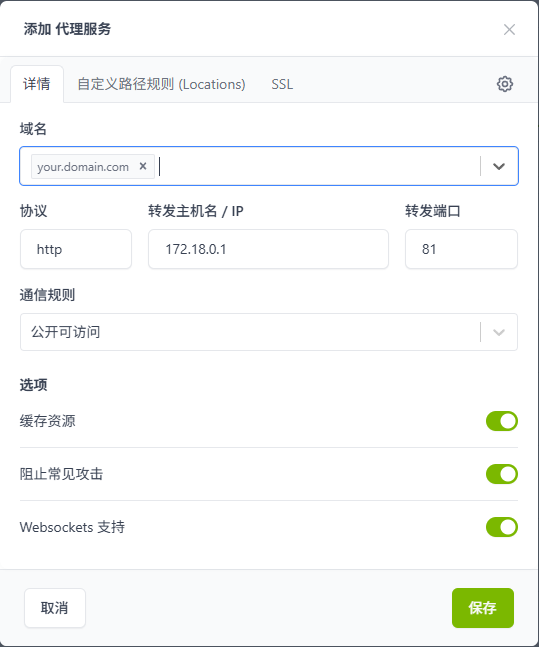
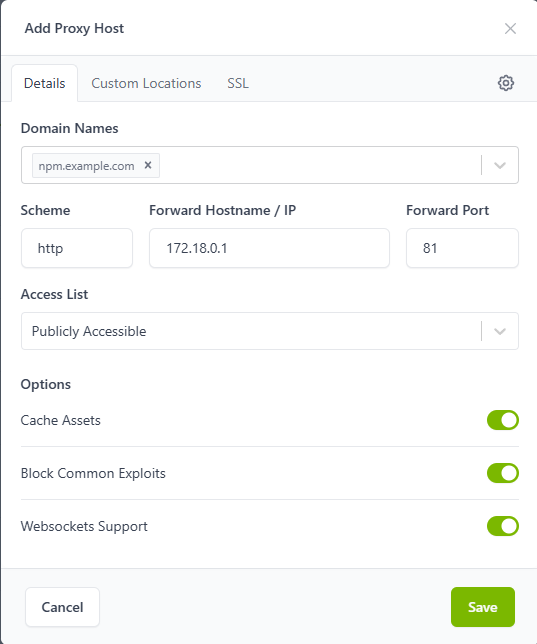
update README-b

diff --git a/README-b.md b/README-b.md
@@ -27,8 +27,9 @@ sudo sh get-docker.sh
 
 ### 3）准备工作目录
 
-如果你**已经在使用 Nginx、Caddy、Nginx Proxy Manager 等反向代理工具**，进入它们所在的目录即可。  
-如果你**还没有任何反向代理环境**，可以先创建一个新目录：
+如果你**已经在使用 Nginx、Caddy、Nginx Proxy Manager 等反向代理工具**，进入它们所在的目录即可。接下来直接跳到6)。  
+
+如果你**还没有任何反向代理环境**，可以先创建一个新目录并进入：
 
 ```bash
 mkdir emby-proxy && cd emby-proxy
@@ -70,6 +71,8 @@ services:
 - `DB_MYSQL_USER` 和 `MYSQL_USER` 必须一致
 - `DB_MYSQL_PASSWORD` 和 `MYSQL_PASSWORD` 必须一致
 - 建议所有密码都设置为强密码
+
+下一步到7)。
 
 ### 6）如果你已经有自己的反向代理环境
 
@@ -135,19 +138,22 @@ http://你的服务器IP:81
 
 这里需要注意：
 
-- 把 `your.domain.com` 改成你自己的域名
+- 把 `npm.example.com` 改成你自己的域名
 - 把 `172.18.0.1` 改成你的 Docker 网关地址
-- 如果你是新安装环境，`172.18.0.1` 通常不用改
-- SSL 相关选项按你的实际情况勾选，然后保存
+- 如果你是新安装环境，`172.18.0.1` 通常不用改 
 
-保存后，你就可以通过域名访问 Nginx Proxy Manager。  
-由于首次创建账号时走的是 HTTP 明文，建议配置完成后顺手修改一下密码。
+SSL 相关选项按你的实际情况勾选，然后保存。
+
+保存后，你就可以通过域名访问 Nginx Proxy Manager，之后请使用 https 域名形式访问。
+由于首次创建账号时走的是 HTTP 明文，建议配置完成后在下一次使用域名访问时顺手修改一下密码。
 
 ### 4）反代 `emby-proxy` 服务
 
+与上一步一样，建立一个新的代理用来代理本服务。
+
 ![](screenshots/npm-2.png)
 
-这里把 `proxy.emby.com` 改成你自己的域名。前往 SSL 页面，同样按你的实际情况勾选。
+这里把 `proxy.example.com` 改成你自己的域名。前往 SSL 页面，同样按你的实际情况勾选。
 
 然后前往设置页，添加对应属性后保存：
 
